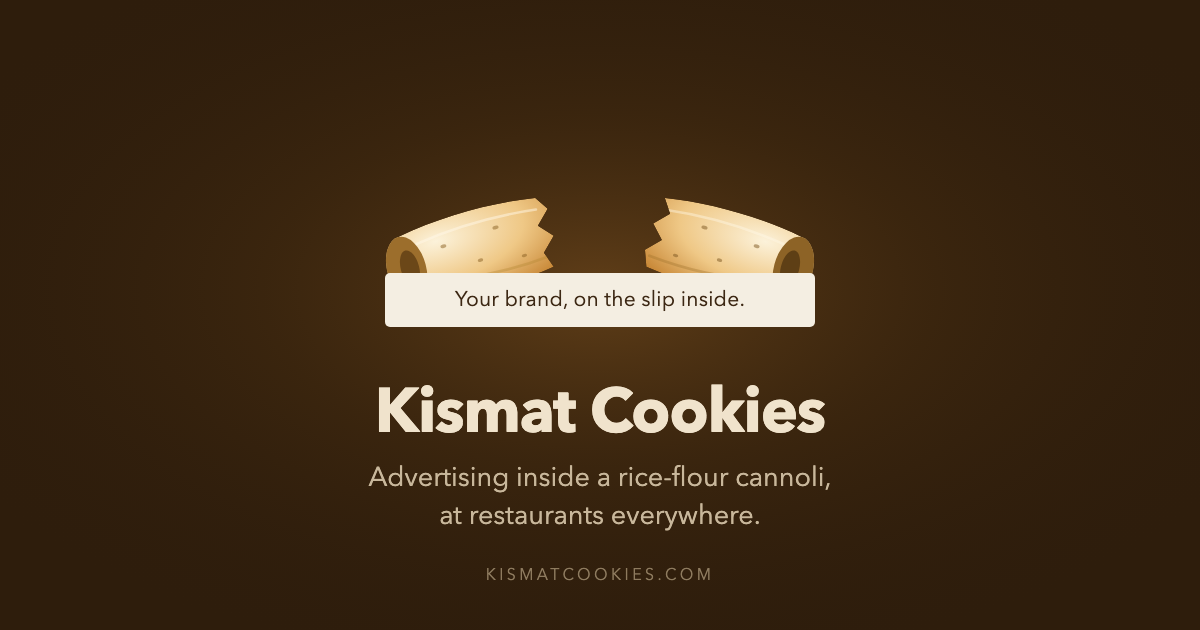
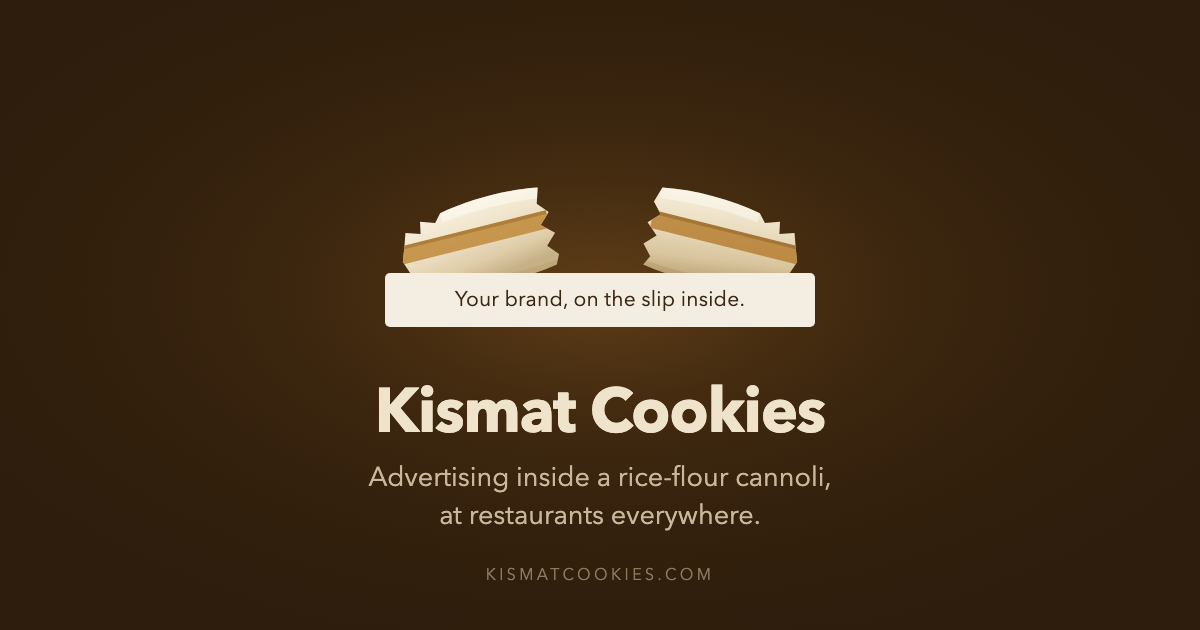
Draw the wrapper instead of the food
Two passes tried to draw the cannoli itself and both failed the only
test that matters — they looked like a cartoon of a snack. Vector
renders paper and geometry honestly and food badly, and no amount of
speckle and rim shading was going to fix that.

So the thing the visitor taps is now a sealed sachet with crimped ends,
torn across the middle. It puts the hard part inside the packet where
nobody has to judge it, and it is truer to the product: a real run
arrives wrapped, and the wrapper is a brand surface in its own right,
which is why there is a printed band on it rather than blank paper.

Both halves still share one line traversed in opposite directions, so
the torn edges interlock and the halves read as pulled apart rather
than drawn apart. Same viewBox and class names, so the existing
transitions drive it untouched. The hint reads "Tap to open it" now —
you tear a wrapper, you do not crack one.

og.svg is rewritten rather than patched, copying WRAP_L/WRAP_R
verbatim. It had drifted twice by being edited separately from the
page: at one point the card was still drawing the first roll silhouette
while the page drew the third.

Noted in CLAUDE.md that the food is not to be drawn. If the artwork
ever needs to show it, that is a photograph, not a path.

Changed region(s): [[0.5242, 0.3016, 0.6783, 0.4524], [0.3083, 0.3016, 0.4625, 0.4524]]

diff --git a/build.js b/build.js
@@ -30,113 +30,73 @@ const smallArrow = `<svg width="11" height="11" viewBox="0 0 11 11" fill="none" 
 const bone = (w = 23, h = 21) => `<svg width="${w}" height="${h}" viewBox="0 0 24 22" fill="none" aria-hidden="true"><path d="M3.4 4.2C6.6 4.6 8.6 7.6 9.8 11.6 10.6 14.2 11.4 16.4 12 18.6 12.6 16.4 13.4 14.2 14.2 11.6 15.4 7.6 17.4 4.6 20.6 4.2" stroke="currentColor" stroke-width="2.2" stroke-linecap="round" stroke-linejoin="round"/><circle cx="3.2" cy="4.1" r="1.9" fill="currentColor"/><circle cx="20.8" cy="4.1" r="1.9" fill="currentColor"/></svg>`;
 
 
-/* The cannoli, emitted wherever it is needed. `sfx` keeps the gradient and
-   clip ids unique so two of them on one page cannot collide.
+/* The wrapper, emitted wherever it is needed. `sfx` keeps the gradient and clip
+   ids unique so two of them on one page cannot collide.
 
-   A hollow rolled tube, snapped across the middle. Both halves share one break
-   polyline traversed in opposite directions, so the jagged edges interlock
-   instead of crossing — the trick the fortune cookie used, and the reason the
-   pieces read as having come apart rather than been drawn apart.
+   A sealed sachet with crimped ends, torn across the middle. Two earlier passes
+   tried to draw the cannoli itself and both failed the only test that matters —
+   they looked like a cartoon of food rather than food. Drawing the wrapper
+   instead sidesteps that entirely: a sachet is paper and geometry, which vector
+   renders honestly, and the thing that is hard to draw stays inside it where
+   nobody has to judge it.
 
-   Three things do the work of making it read as hollow rather than as a solid
-   lozenge, and all three were missing from the first attempt:
+   It is also truer to the product. A real run arrives wrapped, and the wrapper
+   is a brand surface in its own right, which is why there is a printed band on
+   it rather than blank paper.
 
-     - the open end is a RING, not a disc: a pale pastry rim with the dark hole
-       inside it. A flat dark ellipse just looked like a capped end. The hole is
-       deliberately small against the rim — a fried shell has a thick wall, and
-       a wide hole reads as a napkin ring rather than something you could bake.
-     - the body tapers, and the silhouette is wider at the mouth than at the
-       break, so the eye reads a cylinder seen slightly end-on.
-     - an underside shadow inside the clip, so the tube turns away from the
-       light instead of sitting flat.
+   Both halves share one tear line traversed in opposite directions, so the
+   ragged edges interlock instead of crossing — the same trick every version of
+   this has used, and the reason the halves read as having been pulled apart
+   rather than drawn apart. */
+const TEAR_UP   = "L154 150 L146 141 L155 132 L145 123 L154 114 L146 105";
+const TEAR_DOWN = "L146 105 L154 114 L145 123 L155 132 L146 141 L154 150 L150 158";
 
-   Each half keeps its open end pointing outward, because that hollow is the
-   product: it is where the slip goes. The animation parts them left and right,
-   so both mouths turn toward the viewer as they separate. */
-/* The break spans 93..155, the same 62px the mouths do, and the long edges are
-   nearly straight. An earlier pass bowed them and left the break narrower than
-   the ends, which gave the intact roll a waist — an hourglass rather than a
-   tube. The closed state is what a visitor sees first, so it has to hold. */
-const BRK_D = "L161 102 L149 112 L159 121 L147 131 L158 140 L146 148 L150 155";
-const BRK_U = "L146 148 L158 140 L147 131 L159 121 L149 112 L161 102 L152 93";
+const WRAP_L = `M150 92 C122 87 92 88 66 93 L60 100 L48 96 L46 106 L34 102 L30 114 L26 125 L30 136 L34 148 L46 144 L48 154 L60 150 L66 157 C92 162 122 163 150 158 ${TEAR_UP} Z`;
+const WRAP_R = `M150 92 ${TEAR_DOWN} C178 163 208 162 234 157 L240 150 L252 154 L254 144 L266 148 L270 136 L274 125 L270 114 L266 102 L254 106 L252 96 L240 100 L234 93 C208 88 178 87 150 92 Z`;
 
-const ROLL_L = `M26 94 C72 90 112 90 152 93 ${BRK_D} C112 158 72 158 26 156 A18 31 0 0 1 26 94 Z`;
-const ROLL_R = `M150 155 ${BRK_U} C188 90 228 90 274 94 A18 31 0 0 1 274 156 C228 158 188 158 150 155 Z`;
-
-const rollHalves = (sfx) => `
+const wrapHalves = (sfx) => `
                 <svg class="biscuit__half biscuit__half--l" viewBox="0 0 300 250" aria-hidden="true">
                   <defs>
-                    <linearGradient id="bakeL${sfx}" x1="0" y1="0" x2="0" y2="1">
-                      <stop offset="0" stop-color="#FDF8EC"/><stop offset="0.38" stop-color="#F2E2BE"/>
-                      <stop offset="0.74" stop-color="#DCC08A"/><stop offset="1" stop-color="#BB9450"/>
+                    <linearGradient id="wrapL${sfx}" x1="0" y1="0" x2="0.25" y2="1">
+                      <stop offset="0" stop-color="#FBF4E6"/><stop offset="0.42" stop-color="#F0E4CB"/>
+                      <stop offset="0.78" stop-color="#DFCDA9"/><stop offset="1" stop-color="#C6B085"/>
                     </linearGradient>
-                    <clipPath id="clipL${sfx}"><path d="${ROLL_L}"/></clipPath>
+                    <clipPath id="clipL${sfx}"><path d="${WRAP_L}"/></clipPath>
                   </defs>
-                  <path fill="url(#bakeL${sfx})" d="${ROLL_L}"/>
+                  <path fill="url(#wrapL${sfx})" d="${WRAP_L}"/>
                   <g clip-path="url(#clipL${sfx})">
-                    <!-- underside turning away from the light -->
-                    <path fill="#A87B33" fill-opacity=".30" d="M26 141 C80 154 120 156 156 152 L156 174 L20 174 Z"/>
-                    <!-- the seam where the rolled sheet overlaps, running the length -->
-                    <path fill="none" stroke="#B08536" stroke-opacity=".38" stroke-width="2" stroke-linecap="round"
-                          d="M32 138 C74 146 114 147 152 143"/>
-                    <!-- highlight along the top of the curve -->
-                    <path fill="none" stroke="#FFFCF4" stroke-opacity=".62" stroke-width="2.6" stroke-linecap="round"
-                          d="M42 103 C78 99 114 99 148 102"/>
-                    <!-- cumin and sesame through the flour -->
-                    <g fill="#7A5218">
-                      <ellipse cx="58" cy="112" rx="2.7" ry="1.5" fill-opacity=".55" transform="rotate(-16 58 112)"/>
-                      <ellipse cx="84" cy="132" rx="2.3" ry="1.4" fill-opacity=".45" transform="rotate(24 84 132)"/>
-                      <ellipse cx="104" cy="108" rx="2.8" ry="1.6" fill-opacity=".6"  transform="rotate(-6 104 108)"/>
-                      <ellipse cx="126" cy="136" rx="2.2" ry="1.3" fill-opacity=".42" transform="rotate(32 126 136)"/>
-                      <ellipse cx="70" cy="146" rx="2.1" ry="1.3" fill-opacity=".38" transform="rotate(10 70 146)"/>
-                      <ellipse cx="118" cy="119" rx="2.5" ry="1.5" fill-opacity=".5"  transform="rotate(-30 118 119)"/>
-                      <ellipse cx="92" cy="105" rx="2" ry="1.2"   fill-opacity=".4"  transform="rotate(14 92 105)"/>
-                      <ellipse cx="140" cy="126" rx="2.2" ry="1.3" fill-opacity=".46" transform="rotate(-20 140 126)"/>
-                      <ellipse cx="48" cy="128" rx="2.4" ry="1.4" fill-opacity=".5"  transform="rotate(28 48 128)"/>
+                    <!-- the printed band: the wrapper is a brand surface too -->
+                    <rect x="20" y="112" width="132" height="15" fill="#C08A3A" fill-opacity=".85"/>
+                    <rect x="20" y="112" width="132" height="3" fill="#8F6220" fill-opacity=".45"/>
+                    <!-- the sheen of a folded sheet catching the light -->
+                    <path fill="#FFFDF6" fill-opacity=".5" d="M66 90 C96 86 124 87 150 90 L150 101 C124 98 96 97 66 101 Z"/>
+                    <!-- creases running out of the crimp -->
+                    <g stroke="#B79B6C" stroke-opacity=".42" stroke-width="1.4" stroke-linecap="round">
+                      <path d="M62 100 L74 110"/><path d="M60 126 L74 126"/><path d="M62 150 L74 140"/>
                     </g>
+                    <!-- the sachet turning under -->
+                    <path fill="#A98A56" fill-opacity=".22" d="M20 146 C70 156 110 158 152 154 L152 172 L20 172 Z"/>
                   </g>
-                  <!-- the open end: a pastry ring with the hollow inside it -->
-                  <ellipse cx="26" cy="125" rx="18" ry="31" fill="#F1E1BE"/>
-                  <ellipse cx="26" cy="125" rx="18" ry="31" fill="none" stroke="#B89355" stroke-opacity=".5" stroke-width="1.4"/>
-                  <ellipse cx="29" cy="125" rx="8" ry="16" fill="#593912"/>
-                  <ellipse cx="30" cy="123.5" rx="5.6" ry="11.5" fill="#3E250B" fill-opacity=".7"/>
-                  <path fill="none" stroke="#FFFBF0" stroke-opacity=".55" stroke-width="2" stroke-linecap="round"
-                        d="M14 108 A18 31 0 0 0 14 142"/>
                 </svg>
 
                 <svg class="biscuit__half biscuit__half--r" viewBox="0 0 300 250" aria-hidden="true">
                   <defs>
-                    <linearGradient id="bakeR${sfx}" x1="0" y1="0" x2="0" y2="1">
-                      <stop offset="0" stop-color="#FAF3E3"/><stop offset="0.38" stop-color="#EDDBB3"/>
-                      <stop offset="0.74" stop-color="#D4B57C" /><stop offset="1" stop-color="#B08843"/>
+                    <linearGradient id="wrapR${sfx}" x1="0" y1="0" x2="0.25" y2="1">
+                      <stop offset="0" stop-color="#F8F0DF"/><stop offset="0.42" stop-color="#EBDDC1"/>
+                      <stop offset="0.78" stop-color="#D8C49C"/><stop offset="1" stop-color="#BCA477"/>
                     </linearGradient>
-                    <clipPath id="clipR${sfx}"><path d="${ROLL_R}"/></clipPath>
+                    <clipPath id="clipR${sfx}"><path d="${WRAP_R}"/></clipPath>
                   </defs>
-                  <path fill="url(#bakeR${sfx})" d="${ROLL_R}"/>
+                  <path fill="url(#wrapR${sfx})" d="${WRAP_R}"/>
                   <g clip-path="url(#clipR${sfx})">
-                    <path fill="#9C7029" fill-opacity=".30" d="M274 141 C220 154 180 156 144 152 L144 174 L280 174 Z"/>
-                    <path fill="none" stroke="#9E762C" stroke-opacity=".38" stroke-width="2" stroke-linecap="round"
-                          d="M268 138 C226 146 186 147 148 143"/>
-                    <path fill="none" stroke="#FFFCF4" stroke-opacity=".52" stroke-width="2.6" stroke-linecap="round"
-                          d="M258 103 C222 99 186 99 152 102"/>
-                    <g fill="#6E4A15">
-                      <ellipse cx="242" cy="112" rx="2.7" ry="1.5" fill-opacity=".55" transform="rotate(16 242 112)"/>
-                      <ellipse cx="216" cy="132" rx="2.3" ry="1.4" fill-opacity=".45" transform="rotate(-24 216 132)"/>
-                      <ellipse cx="196" cy="108" rx="2.8" ry="1.6" fill-opacity=".6"  transform="rotate(6 196 108)"/>
-                      <ellipse cx="174" cy="136" rx="2.2" ry="1.3" fill-opacity=".42" transform="rotate(-32 174 136)"/>
-                      <ellipse cx="230" cy="146" rx="2.1" ry="1.3" fill-opacity=".38" transform="rotate(-10 230 146)"/>
-                      <ellipse cx="182" cy="119" rx="2.5" ry="1.5" fill-opacity=".5"  transform="rotate(30 182 119)"/>
-                      <ellipse cx="208" cy="105" rx="2" ry="1.2"   fill-opacity=".4"  transform="rotate(-14 208 105)"/>
-                      <ellipse cx="160" cy="126" rx="2.2" ry="1.3" fill-opacity=".46" transform="rotate(20 160 126)"/>
-                      <ellipse cx="252" cy="128" rx="2.4" ry="1.4" fill-opacity=".5"  transform="rotate(-28 252 128)"/>
+                    <rect x="148" y="112" width="132" height="15" fill="#B67F33" fill-opacity=".85"/>
+                    <rect x="148" y="112" width="132" height="3" fill="#855A1C" fill-opacity=".45"/>
+                    <path fill="#FFFDF6" fill-opacity=".44" d="M150 90 C176 87 204 86 234 90 L234 101 C204 97 176 98 150 101 Z"/>
+                    <g stroke="#AC9063" stroke-opacity=".42" stroke-width="1.4" stroke-linecap="round">
+                      <path d="M238 100 L226 110"/><path d="M240 126 L226 126"/><path d="M238 150 L226 140"/>
                     </g>
+                    <path fill="#9E7F4C" fill-opacity=".22" d="M280 146 C230 156 190 158 148 154 L148 172 L280 172 Z"/>
                   </g>
-                  <ellipse cx="274" cy="125" rx="18" ry="31" fill="#EBDAB2"/>
-                  <ellipse cx="274" cy="125" rx="18" ry="31" fill="none" stroke="#AC8747" stroke-opacity=".5" stroke-width="1.4"/>
-                  <ellipse cx="271" cy="125" rx="8" ry="16" fill="#4E3210"/>
-                  <ellipse cx="270" cy="123.5" rx="5.6" ry="11.5" fill="#36200A" fill-opacity=".7"/>
-                  <path fill="none" stroke="#FFFBF0" stroke-opacity=".4" stroke-width="2" stroke-linecap="round"
-                        d="M286 108 A18 31 0 0 1 286 142"/>
                 </svg>`;
 
 
@@ -274,16 +234,16 @@ ${page === 'home' ? `    <!-- The fortune moment. Landing page only, on every lo
         <div class="moment__fortune">
         <p class="moment__eyebrow" id="moment-title">One for you</p>
         <button class="moment__cookie" type="button" id="moment-cookie"
-                aria-label="Snap open the cannoli">
+                aria-label="Open the wrapper">
           <span class="moment__aura" aria-hidden="true"></span>
           <span class="biscuit">
-            ${rollHalves('m')}
+            ${wrapHalves('m')}
             <span class="biscuit__crumb"></span><span class="biscuit__crumb"></span>
             <span class="biscuit__crumb"></span><span class="biscuit__crumb"></span>
             <span class="biscuit__crumb"></span>
           </span>
         </button>
-        <p class="moment__hint">Tap to crack it open</p>
+        <p class="moment__hint">Tap to open it</p>
         <figure class="moment__slip" role="status">
           <div class="paper paper--fortune">
             <p>Your fortune holds within you.</p>
@@ -397,7 +357,7 @@ const socialHead = (page, html) => {
 <meta property="og:image" content="${SITE}/assets/media/og.png">
 <meta property="og:image:width" content="1200">
 <meta property="og:image:height" content="630">
-<meta property="og:image:alt" content="A rice-flour cannoli snapped open beside the words Kismat Cookies.">
+<meta property="og:image:alt" content="A sealed wrapper torn open beside the words Kismat Cookies.">
 <meta name="twitter:card" content="summary_large_image">
 <meta name="twitter:title" content="${esc(ogTitle)}">
 <meta name="twitter:description" content="${esc(desc)}">

diff --git a/index.html b/index.html
@@ -21,7 +21,7 @@
 <meta property="og:image" content="https://kismatcookies.com/assets/media/og.png">
 <meta property="og:image:width" content="1200">
 <meta property="og:image:height" content="630">
-<meta property="og:image:alt" content="A rice-flour cannoli snapped open beside the words Kismat Cookies.">
+<meta property="og:image:alt" content="A sealed wrapper torn open beside the words Kismat Cookies.">
 <meta name="twitter:card" content="summary_large_image">
 <meta name="twitter:title" content="Kismat Cookies">
 <meta name="twitter:description" content="Kismat Cookies puts your brand inside a rice-flour cannoli served with the restaurant check, with your line, your code and the lucky numbers on the slip inside.">
@@ -278,90 +278,59 @@
         <div class="moment__fortune">
         <p class="moment__eyebrow" id="moment-title">One for you</p>
         <button class="moment__cookie" type="button" id="moment-cookie"
-                aria-label="Snap open the cannoli">
+                aria-label="Open the wrapper">
           <span class="moment__aura" aria-hidden="true"></span>
           <span class="biscuit">
             
                 <svg class="biscuit__half biscuit__half--l" viewBox="0 0 300 250" aria-hidden="true">
                   <defs>
-                    <linearGradient id="bakeLm" x1="0" y1="0" x2="0" y2="1">
-                      <stop offset="0" stop-color="#FDF8EC"/><stop offset="0.38" stop-color="#F2E2BE"/>
-                      <stop offset="0.74" stop-color="#DCC08A"/><stop offset="1" stop-color="#BB9450"/>
+                    <linearGradient id="wrapLm" x1="0" y1="0" x2="0.25" y2="1">
+                      <stop offset="0" stop-color="#FBF4E6"/><stop offset="0.42" stop-color="#F0E4CB"/>
+                      <stop offset="0.78" stop-color="#DFCDA9"/><stop offset="1" stop-color="#C6B085"/>
                     </linearGradient>
-                    <clipPath id="clipLm"><path d="M26 94 C72 90 112 90 152 93 L161 102 L149 112 L159 121 L147 131 L158 140 L146 148 L150 155 C112 158 72 158 26 156 A18 31 0 0 1 26 94 Z"/></clipPath>
+                    <clipPath id="clipLm"><path d="M150 92 C122 87 92 88 66 93 L60 100 L48 96 L46 106 L34 102 L30 114 L26 125 L30 136 L34 148 L46 144 L48 154 L60 150 L66 157 C92 162 122 163 150 158 L154 150 L146 141 L155 132 L145 123 L154 114 L146 105 Z"/></clipPath>
                   </defs>
-                  <path fill="url(#bakeLm)" d="M26 94 C72 90 112 90 152 93 L161 102 L149 112 L159 121 L147 131 L158 140 L146 148 L150 155 C112 158 72 158 26 156 A18 31 0 0 1 26 94 Z"/>
+                  <path fill="url(#wrapLm)" d="M150 92 C122 87 92 88 66 93 L60 100 L48 96 L46 106 L34 102 L30 114 L26 125 L30 136 L34 148 L46 144 L48 154 L60 150 L66 157 C92 162 122 163 150 158 L154 150 L146 141 L155 132 L145 123 L154 114 L146 105 Z"/>
                   <g clip-path="url(#clipLm)">
-                    <!-- underside turning away from the light -->
-                    <path fill="#A87B33" fill-opacity=".30" d="M26 141 C80 154 120 156 156 152 L156 174 L20 174 Z"/>
-                    <!-- the seam where the rolled sheet overlaps, running the length -->
-                    <path fill="none" stroke="#B08536" stroke-opacity=".38" stroke-width="2" stroke-linecap="round"
-                          d="M32 138 C74 146 114 147 152 143"/>
-                    <!-- highlight along the top of the curve -->
-                    <path fill="none" stroke="#FFFCF4" stroke-opacity=".62" stroke-width="2.6" stroke-linecap="round"
-                          d="M42 103 C78 99 114 99 148 102"/>
-                    <!-- cumin and sesame through the flour -->
-                    <g fill="#7A5218">
-                      <ellipse cx="58" cy="112" rx="2.7" ry="1.5" fill-opacity=".55" transform="rotate(-16 58 112)"/>
-                      <ellipse cx="84" cy="132" rx="2.3" ry="1.4" fill-opacity=".45" transform="rotate(24 84 132)"/>
-                      <ellipse cx="104" cy="108" rx="2.8" ry="1.6" fill-opacity=".6"  transform="rotate(-6 104 108)"/>
-                      <ellipse cx="126" cy="136" rx="2.2" ry="1.3" fill-opacity=".42" transform="rotate(32 126 136)"/>
-                      <ellipse cx="70" cy="146" rx="2.1" ry="1.3" fill-opacity=".38" transform="rotate(10 70 146)"/>
-                      <ellipse cx="118" cy="119" rx="2.5" ry="1.5" fill-opacity=".5"  transform="rotate(-30 118 119)"/>
-                      <ellipse cx="92" cy="105" rx="2" ry="1.2"   fill-opacity=".4"  transform="rotate(14 92 105)"/>
-                      <ellipse cx="140" cy="126" rx="2.2" ry="1.3" fill-opacity=".46" transform="rotate(-20 140 126)"/>
-                      <ellipse cx="48" cy="128" rx="2.4" ry="1.4" fill-opacity=".5"  transform="rotate(28 48 128)"/>
+                    <!-- the printed band: the wrapper is a brand surface too -->
+                    <rect x="20" y="112" width="132" height="15" fill="#C08A3A" fill-opacity=".85"/>
+                    <rect x="20" y="112" width="132" height="3" fill="#8F6220" fill-opacity=".45"/>
+                    <!-- the sheen of a folded sheet catching the light -->
+                    <path fill="#FFFDF6" fill-opacity=".5" d="M66 90 C96 86 124 87 150 90 L150 101 C124 98 96 97 66 101 Z"/>
+                    <!-- creases running out of the crimp -->
+                    <g stroke="#B79B6C" stroke-opacity=".42" stroke-width="1.4" stroke-linecap="round">
+                      <path d="M62 100 L74 110"/><path d="M60 126 L74 126"/><path d="M62 150 L74 140"/>
                     </g>
+                    <!-- the sachet turning under -->
+                    <path fill="#A98A56" fill-opacity=".22" d="M20 146 C70 156 110 158 152 154 L152 172 L20 172 Z"/>
                   </g>
-                  <!-- the open end: a pastry ring with the hollow inside it -->
-                  <ellipse cx="26" cy="125" rx="18" ry="31" fill="#F1E1BE"/>
-                  <ellipse cx="26" cy="125" rx="18" ry="31" fill="none" stroke="#B89355" stroke-opacity=".5" stroke-width="1.4"/>
-                  <ellipse cx="29" cy="125" rx="8" ry="16" fill="#593912"/>
-                  <ellipse cx="30" cy="123.5" rx="5.6" ry="11.5" fill="#3E250B" fill-opacity=".7"/>
-                  <path fill="none" stroke="#FFFBF0" stroke-opacity=".55" stroke-width="2" stroke-linecap="round"
-                        d="M14 108 A18 31 0 0 0 14 142"/>
                 </svg>
 
                 <svg class="biscuit__half biscuit__half--r" viewBox="0 0 300 250" aria-hidden="true">
                   <defs>
-                    <linearGradient id="bakeRm" x1="0" y1="0" x2="0" y2="1">
-                      <stop offset="0" stop-color="#FAF3E3"/><stop offset="0.38" stop-color="#EDDBB3"/>
-                      <stop offset="0.74" stop-color="#D4B57C" /><stop offset="1" stop-color="#B08843"/>
+                    <linearGradient id="wrapRm" x1="0" y1="0" x2="0.25" y2="1">
+                      <stop offset="0" stop-color="#F8F0DF"/><stop offset="0.42" stop-color="#EBDDC1"/>
+                      <stop offset="0.78" stop-color="#D8C49C"/><stop offset="1" stop-color="#BCA477"/>
                     </linearGradient>
-                    <clipPath id="clipRm"><path d="M150 155 L146 148 L158 140 L147 131 L159 121 L149 112 L161 102 L152 93 C188 90 228 90 274 94 A18 31 0 0 1 274 156 C228 158 188 158 150 155 Z"/></clipPath>
+                    <clipPath id="clipRm"><path d="M150 92 L146 105 L154 114 L145 123 L155 132 L146 141 L154 150 L150 158 C178 163 208 162 234 157 L240 150 L252 154 L254 144 L266 148 L270 136 L274 125 L270 114 L266 102 L254 106 L252 96 L240 100 L234 93 C208 88 178 87 150 92 Z"/></clipPath>
                   </defs>
-                  <path fill="url(#bakeRm)" d="M150 155 L146 148 L158 140 L147 131 L159 121 L149 112 L161 102 L152 93 C188 90 228 90 274 94 A18 31 0 0 1 274 156 C228 158 188 158 150 155 Z"/>
+                  <path fill="url(#wrapRm)" d="M150 92 L146 105 L154 114 L145 123 L155 132 L146 141 L154 150 L150 158 C178 163 208 162 234 157 L240 150 L252 154 L254 144 L266 148 L270 136 L274 125 L270 114 L266 102 L254 106 L252 96 L240 100 L234 93 C208 88 178 87 150 92 Z"/>
                   <g clip-path="url(#clipRm)">
-                    <path fill="#9C7029" fill-opacity=".30" d="M274 141 C220 154 180 156 144 152 L144 174 L280 174 Z"/>
-                    <path fill="none" stroke="#9E762C" stroke-opacity=".38" stroke-width="2" stroke-linecap="round"
-                          d="M268 138 C226 146 186 147 148 143"/>
-                    <path fill="none" stroke="#FFFCF4" stroke-opacity=".52" stroke-width="2.6" stroke-linecap="round"
-                          d="M258 103 C222 99 186 99 152 102"/>
-                    <g fill="#6E4A15">
-                      <ellipse cx="242" cy="112" rx="2.7" ry="1.5" fill-opacity=".55" transform="rotate(16 242 112)"/>
-                      <ellipse cx="216" cy="132" rx="2.3" ry="1.4" fill-opacity=".45" transform="rotate(-24 216 132)"/>
-                      <ellipse cx="196" cy="108" rx="2.8" ry="1.6" fill-opacity=".6"  transform="rotate(6 196 108)"/>
-                      <ellipse cx="174" cy="136" rx="2.2" ry="1.3" fill-opacity=".42" transform="rotate(-32 174 136)"/>
-                      <ellipse cx="230" cy="146" rx="2.1" ry="1.3" fill-opacity=".38" transform="rotate(-10 230 146)"/>
-                      <ellipse cx="182" cy="119" rx="2.5" ry="1.5" fill-opacity=".5"  transform="rotate(30 182 119)"/>
-                      <ellipse cx="208" cy="105" rx="2" ry="1.2"   fill-opacity=".4"  transform="rotate(-14 208 105)"/>
-                      <ellipse cx="160" cy="126" rx="2.2" ry="1.3" fill-opacity=".46" transform="rotate(20 160 126)"/>
-                      <ellipse cx="252" cy="128" rx="2.4" ry="1.4" fill-opacity=".5"  transform="rotate(-28 252 128)"/>
+                    <rect x="148" y="112" width="132" height="15" fill="#B67F33" fill-opacity=".85"/>
+                    <rect x="148" y="112" width="132" height="3" fill="#855A1C" fill-opacity=".45"/>
+                    <path fill="#FFFDF6" fill-opacity=".44" d="M150 90 C176 87 204 86 234 90 L234 101 C204 97 176 98 150 101 Z"/>
+                    <g stroke="#AC9063" stroke-opacity=".42" stroke-width="1.4" stroke-linecap="round">
+                      <path d="M238 100 L226 110"/><path d="M240 126 L226 126"/><path d="M238 150 L226 140"/>
                     </g>
+                    <path fill="#9E7F4C" fill-opacity=".22" d="M280 146 C230 156 190 158 148 154 L148 172 L280 172 Z"/>
                   </g>
-                  <ellipse cx="274" cy="125" rx="18" ry="31" fill="#EBDAB2"/>
-                  <ellipse cx="274" cy="125" rx="18" ry="31" fill="none" stroke="#AC8747" stroke-opacity=".5" stroke-width="1.4"/>
-                  <ellipse cx="271" cy="125" rx="8" ry="16" fill="#4E3210"/>
-                  <ellipse cx="270" cy="123.5" rx="5.6" ry="11.5" fill="#36200A" fill-opacity=".7"/>
-                  <path fill="none" stroke="#FFFBF0" stroke-opacity=".4" stroke-width="2" stroke-linecap="round"
-                        d="M286 108 A18 31 0 0 1 286 142"/>
                 </svg>
             <span class="biscuit__crumb"></span><span class="biscuit__crumb"></span>
             <span class="biscuit__crumb"></span><span class="biscuit__crumb"></span>
             <span class="biscuit__crumb"></span>
           </span>
         </button>
-        <p class="moment__hint">Tap to crack it open</p>
+        <p class="moment__hint">Tap to open it</p>
         <figure class="moment__slip" role="status">
           <div class="paper paper--fortune">
             <p>Your fortune holds within you.</p>

diff --git a/why-it-works.html b/why-it-works.html
@@ -21,7 +21,7 @@
 <meta property="og:image" content="https://kismatcookies.com/assets/media/og.png">
 <meta property="og:image:width" content="1200">
 <meta property="og:image:height" content="630">
-<meta property="og:image:alt" content="A rice-flour cannoli snapped open beside the words Kismat Cookies.">
+<meta property="og:image:alt" content="A sealed wrapper torn open beside the words Kismat Cookies.">
 <meta name="twitter:card" content="summary_large_image">
 <meta name="twitter:title" content="Why it works">
 <meta name="twitter:description" content="Out-of-home cannot be blocked, skipped or scrolled past. Why physical media builds brands, and why a cannoli is the sharpest version of it.">

diff --git a/formats.html b/formats.html
@@ -21,7 +21,7 @@
 <meta property="og:image" content="https://kismatcookies.com/assets/media/og.png">
 <meta property="og:image:width" content="1200">
 <meta property="og:image:height" content="630">
-<meta property="og:image:alt" content="A rice-flour cannoli snapped open beside the words Kismat Cookies.">
+<meta property="og:image:alt" content="A sealed wrapper torn open beside the words Kismat Cookies.">
 <meta name="twitter:card" content="summary_large_image">
 <meta name="twitter:title" content="The formats">
 <meta name="twitter:description" content="Six ways to put a brand inside a cannoli: the fortune, the numbers, the code, targeting, drops and co-branding.">

diff --git a/contact.html b/contact.html
@@ -21,7 +21,7 @@
 <meta property="og:image" content="https://kismatcookies.com/assets/media/og.png">
 <meta property="og:image:width" content="1200">
 <meta property="og:image:height" content="630">
-<meta property="og:image:alt" content="A rice-flour cannoli snapped open beside the words Kismat Cookies.">
+<meta property="og:image:alt" content="A sealed wrapper torn open beside the words Kismat Cookies.">
 <meta name="twitter:card" content="summary_large_image">
 <meta name="twitter:title" content="Get in touch">
 <meta name="twitter:description" content="Tell us about the brand and what you would want printed on the slip.">

diff --git a/cases.html b/cases.html
@@ -22,7 +22,7 @@
 <meta property="og:image" content="https://kismatcookies.com/assets/media/og.png">
 <meta property="og:image:width" content="1200">
 <meta property="og:image:height" content="630">
-<meta property="og:image:alt" content="A rice-flour cannoli snapped open beside the words Kismat Cookies.">
+<meta property="og:image:alt" content="A sealed wrapper torn open beside the words Kismat Cookies.">
 <meta name="twitter:card" content="summary_large_image">
 <meta name="twitter:title" content="Case studies">
 <meta name="twitter:description" content="Notes on physical media, dinner tables and eleven-word briefs.">

diff --git a/CLAUDE.md b/CLAUDE.md
@@ -41,15 +41,23 @@ Regions between `<!--#name-->` and `<!--/#name-->` are filled by `build.js`:
 - `assets/js/site.js` — shared behaviour only; it does **not** build DOM
 - `assets/js/home.js` — the hero sequence, the wall, the unit slip
 - `assets/css/style.css` — everything, token-driven
-- `build.js` — assembles header/footer/cards at build time. `ROLL_L`/`ROLL_R`
-  draw the cannoli: a hollow tube snapped across the middle, two halves
-  sharing one break polyline traversed in opposite directions so the jagged
-  edges interlock. Each half's open end points outward, because that hollow
-  is where the slip goes. `assets/media/og.svg` repeats the same paths.
-  Two things earned by getting them wrong first: the open end is a pale ring
-  with a **small** dark hole, because a wide hole reads as a napkin ring and a
-  filled ellipse reads as a capped end; and the break spans the same height as
-  the mouths, because a narrower one gave the intact roll a waist.
+- `build.js` — assembles header/footer/cards at build time. `WRAP_L`/`WRAP_R`
+  draw a **sealed sachet with crimped ends, torn across the middle** — the
+  thing the visitor taps in the fortune moment. Both halves share one tear
+  line traversed in opposite directions so the ragged edges interlock.
+
+  **Do not try to draw the food.** Two passes drew the cannoli itself — a
+  hollow tube with a rim and a hole — and both looked like a cartoon of a
+  snack. Vector renders paper and geometry honestly and food badly. Drawing
+  the wrapper puts the hard part inside the packet where nobody has to judge
+  it, and it is truer to the product anyway: a real run arrives wrapped, and
+  the wrapper is a brand surface, which is why there is a printed band on it.
+  If the artwork ever needs to show the food itself, that is a photograph,
+  not a path.
+
+  `assets/media/og.svg` copies WRAP_L/WRAP_R verbatim. It drifted twice by
+  being patched separately; regenerate it from build.js rather than editing
+  its paths by hand.
 - Pages: index, formats, why-it-works, cases, contact
 - `HIDDEN` in `build.js` lists pages that still build and still answer on
   their URL, but are kept out of the nav, out of `sitemap.xml`, and marked
